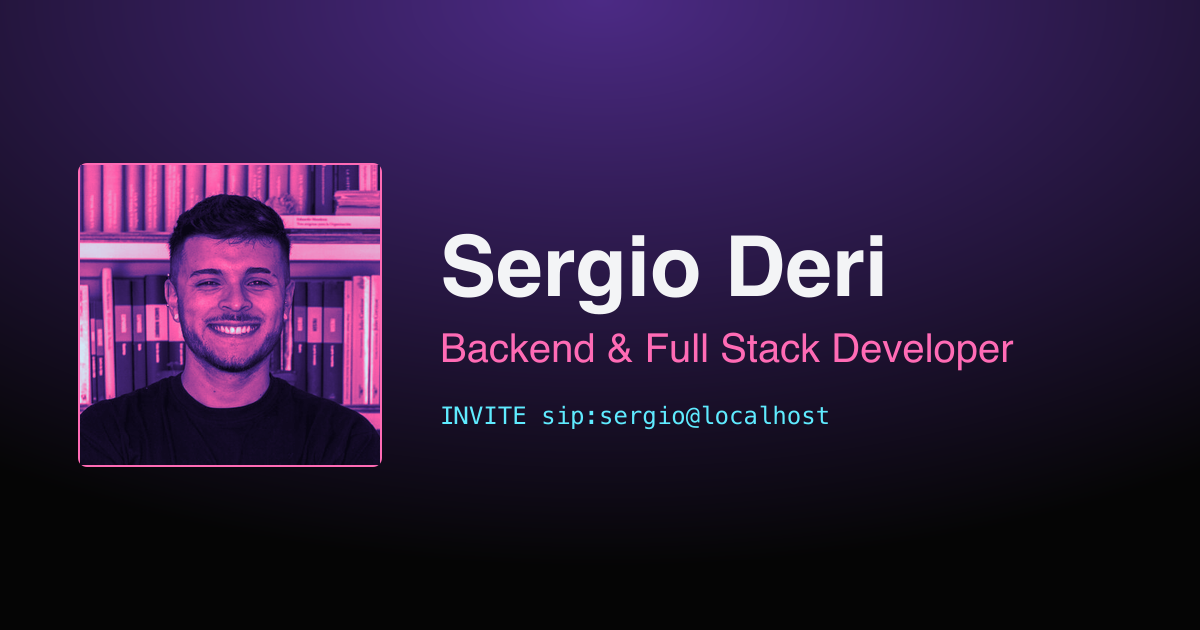
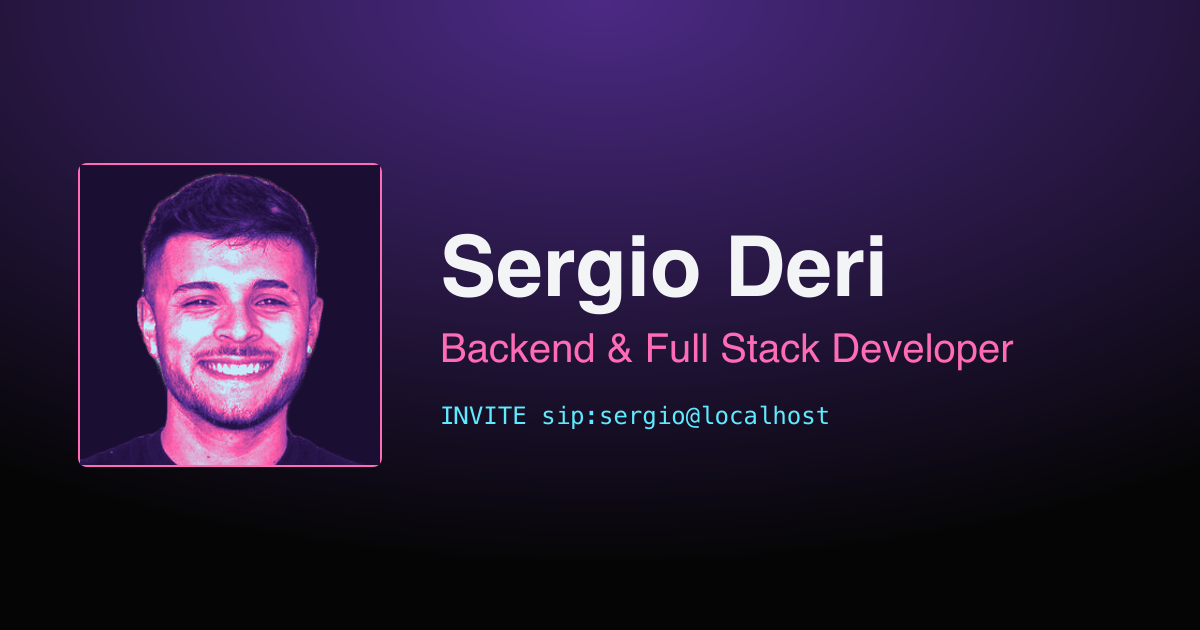
Refine hero portrait, section spacing and project links

Changed region(s): [[0.0617, 0.2413, 0.3392, 0.754]]

diff --git a/src/styles/global.css b/src/styles/global.css
@@ -122,6 +122,27 @@
     background: repeating-linear-gradient(to bottom, rgb(5 5 5 / 0.2) 0 1px, transparent 1px 3px);
   }
 
+  /* Cutout portrait: thin neon rim, scanlines limited to the figure, fading into the page. */
+  /* The padded box keeps the mask from clipping the glow at the image edge. */
+  .portrait-fade {
+    margin: -3rem -1.5rem 0 -3rem;
+    padding: 3rem 1.5rem 0 3rem;
+    mask-image: linear-gradient(to bottom, black 84%, transparent);
+  }
+
+  .portrait {
+    filter: drop-shadow(0 0 1px rgb(255 107 181 / 0.75)) drop-shadow(-12px 0 30px rgb(95 235 255 / 0.1));
+  }
+
+  .portrait::after {
+    content: "";
+    position: absolute;
+    inset: 0;
+    pointer-events: none;
+    background: repeating-linear-gradient(to bottom, rgb(5 5 5 / 0.22) 0 1px, transparent 1px 3px);
+    mask: var(--cutout) center / 100% 100% no-repeat;
+  }
+
   .nav-link {
     position: relative;
     display: inline-block;

diff --git a/src/data/projects.ts b/src/data/projects.ts
@@ -43,7 +43,8 @@ export const projects: Project[] = [
   {
     name: "ElegilosVos",
     dosName: "ELEGILOS",
-    description: "Football fans vote for their team.",
+    description: "Football fans pick their team's starting eleven before each match and see how the crowd's choice compares with the coach's.",
+    url: "https://elegilosvos.vercel.app",
     screen: "vote",
     stack: [],
   },

diff --git a/DESIGN.md b/DESIGN.md
@@ -177,7 +177,7 @@ components:
 
 A terminal left running on a Tokyo side street, kept by one person who built everything on it. The page is a near-black room with a faint 120px grid on the wall and violet light falling from the header. Two neon colours do all the talking: cyan where something can be done, magenta where something is being named or answered. Everything else is ink, grey and hairline.
 
-Density is unhurried. Type is large, sections sit far apart, and the personal projects carry the most mass on the page. Ornament is line-work drawn at low opacity: the asanoha hemp-leaf lattice and the seigaiha wave horizon, the scanlines over images, the single neon sign. Each should register only when you look for it. The world's humour lives in monospaced marginalia that read like telephony and DOS output, set small and grey beside the real content.
+Density is unhurried. Type is large, sections sit far apart, and the personal projects carry the most mass on the page. Ornament is line-work drawn at low opacity: the asanoha hemp-leaf lattice, the seigaiha wave horizon and the scanlines over images. Each should register only when you look for it. The world's humour lives in monospaced marginalia that read like telephony and DOS output, set small and grey beside the real content.
 
 The system rejects corporate templates and loud cyberpunk: heavy glitch, flicker, chromatic aberration. It also rejects retro-web costume and Japanese characters used as decoration; the Japanese reference is carried by geometry alone.
 
@@ -198,7 +198,7 @@ A black room lit by two neon tubes, with violet as the ambient spill and a cold 
 - **Lit Cyan** (#a5f4ff): The hover state of filled cyan buttons, and nothing else.
 
 ### Secondary
-- **Sign Magenta** (#ff6bb5): The naming and response colour. The role line under the name, the neon sign's frame, the asanoha lattice in project cards, the portrait border, every link and card hover, the invalid field border, and text selection.
+- **Sign Magenta** (#ff6bb5): The naming and response colour. The role line under the name, the asanoha lattice in project cards, the portrait border, every link and card hover, the invalid field border, and text selection.
 
 ### Tertiary
 - **Header Violet** (#4c2a85): Ambient only, as the radial glow falling from the header. It is too dark to carry text or lines.
@@ -250,7 +250,7 @@ A single column of sections in a centred container (1152px maximum, 24px gutters
 
 Records use a two-column ledger from 768px wide: a 208px mono column for the date or category, and the content beside it. Below that, the columns stack. Project cards stack with 48px between them, each split about 6:5 between screen and text from 768px wide. The grid behind everything is fixed to the viewport at 120px.
 
-The neon sign takes a 132px column on the right of the hero from 1024px wide. Below that it disappears and a 64px strip of asanoha closes the hero text instead. The sticky header runs three columns from 768px wide and wraps navigation onto its own row below that, with social icons hidden.
+From 1024px wide the portrait takes a 29rem column on the right of the hero. Below that it sits centred above the hero text at full opacity, and a 64px strip of asanoha closes the text. The sticky header runs three columns from 768px wide and wraps navigation onto its own row below that, with social icons hidden.
 
 Motion belongs to arrival and state. The name enters letter by letter and ends on a solid block cursor that stays still. Sections rise 14px and fade once as they enter the viewport. Under reduced motion all of it is removed and the content is simply present, including the name and every revealed section.
 
@@ -260,21 +260,20 @@ Motion belongs to arrival and state. The name enters letter by letter and ends o
 
 ## Elevation & Depth
 
-Flat at rest. Depth comes from tonal steps (Void to Zinc Surface) and hairlines. The one elevation event is a project card under a pointer, which rises 3px and gains a soft magenta glow beneath it. The neon sign carries a permanent faint halo because it is a light source, and that halo is the only resting neon glow on the page; the header's violet wash is ambient light.
+Flat at rest. Depth comes from tonal steps (Void to Zinc Surface) and hairlines. The one elevation event is a project card under a pointer, which rises 3px and gains a soft magenta glow beneath it.
 
 ### Shadow Vocabulary
 - **Card lift** (`box-shadow: 0 14px 34px -18px rgb(255 107 181 / 0.42)`): Project card on hover only, paired with a magenta border.
-- **Neon halo** (`filter: drop-shadow(0 0 7px rgb(255 107 181 / 0.3))`): The neon sign only.
 
 ### Named Rules
 
-**The Almost-Imperceptible Rule.** Atmosphere stays at the opacities the build set: grid at 3.5% white, scanlines at 20% void every 3px, asanoha at 42%, seigaiha at 32%, sign lattice at 66% and fading down its height. If an effect is the first thing you notice, it is too strong.
+**The Almost-Imperceptible Rule.** Atmosphere stays at the opacities the build set: grid at 3.5% white, scanlines at 20% void every 3px, asanoha at 42%, seigaiha at 32%. If an effect is the first thing you notice, it is too strong.
 
-**The Still Light Rule.** Light never moves. Scanlines, glows, the sign and the cursor are static; they do not animate, pulse or blink.
+**The Still Light Rule.** Light never moves. Scanlines, glows and the cursor are static; they do not animate, pulse or blink.
 
 ## Shapes
 
-Gently rounded rectangles (8px) for every container: cards, fields, images, screens, the sign's frame, the form's submit button. Full-round capsules are reserved for small inline things: chips, and the compact Contact button in the header. Timeline nodes are 9px ink circles on a hairline spine.
+Gently rounded rectangles (8px) for every container: cards, fields, images, screens, the form's submit button. Full-round capsules are reserved for small inline things: chips, and the compact Contact button in the header. Timeline nodes are 9px ink circles on a hairline spine.
 
 Traditional patterns are drawn as thin strokes (0.7 to 0.8 units) and fade out by mask: asanoha from the top-right corner of a card, seigaiha downward from nothing into the footer. Cards are broken once along the top edge, where the DOS path sits on a Void notch across the border.
 
@@ -313,13 +312,10 @@ Centred anchors at 16px in Muted Grey, turning magenta on hover. The current sec
 A headline on the left and a 14px mono SIP signal on the right, sharing a baseline over a Hairline rule. The signal is decorative and hidden from assistive technology.
 
 ### Scanlined Frame
-Images and screens sit in an 8px frame with a static scanline layer above them. The portrait is a duotone photograph with a 60% magenta border at 200px square (96px on small screens). A project screenshot, when one exists, takes this same frame with a Hairline border.
+Images and screens sit in an 8px frame with a static scanline layer above them. The portrait is a large duotone cutout with no frame: a 1px magenta rim follows the silhouette, scanlines are masked to the figure, and the base fades into the page. It sits on the right of the hero, 29rem wide on desktop. A project screenshot, when one exists, takes this same frame with a Hairline border.
 
 ### CRT Screen
 A 16:9 placeholder drawn in code, standing in for a missing screenshot: CRT Glass, a `C:\>` run line in cyan, a line-and-block sketch of the product, and the words "sample screen" in the corner. It is labelled as a sample and it is replaced by a real screenshot when one arrives.
-
-### Neon Sign
-A vertical 132px panel in the hero: a cyan asanoha lattice inside a 1.5-unit magenta rounded frame, fading to 34% at its foot, with the neon halo. One per page.
 
 ## Do's and Don'ts
 
@@ -337,7 +333,7 @@ A vertical 132px panel in the hero: a cyan asanoha lattice inside a 1.5-unit mag
 - **Don't** use Japanese characters as decoration; asanoha and seigaiha carry the reference as line-work.
 - **Don't** extend the DOS path or `C:\>` line into windows, title bars, taskbars, boot screens or other operating-system costume, or into GeoCities-style retro-web pastiche.
 - **Don't** fill the asanoha or seigaiha with colour, or raise them above the opacities in the Almost-Imperceptible Rule.
-- **Don't** add a second neon sign, or a resting neon glow to any other element.
+- **Don't** add a resting neon glow to any element.
 - **Don't** add looping animation, including a blinking cursor.
 - **Don't** give another section the visual weight of the project cards.
 - **Don't** show an invented fact on a surface; missing data is hidden.

diff --git a/.impeccable/surfaces/src-pages-index-astro.md b/.impeccable/surfaces/src-pages-index-astro.md
@@ -9,17 +9,17 @@ Scope: the single-page portfolio. Visitor mode: Experience, with a contact actio
 Audience and job: hiring managers and clients decide whether to contact Sergio.
 Proof: real resume history, four personal projects. Provisional CRT screens stand in for screenshots and are labeled as placeholders.
 Constraints: brief-pinned fonts, 8px radius, 72/48/20 type scale, no Japanese characters, near-imperceptible effects, no flicker.
-Memorable moment: the page reads as one SIP call, INVITE to BYE, beside a vertical neon sign built from a hemp-leaf lattice.
+Memorable moment: the page reads as one SIP call, INVITE to BYE.
 
 ## Direction contract
 
 THESIS: A night-shift terminal seen through a Tokyo side street: one craftsman's call log. Refuses the category default of a centred hero over equal icon cards and refuses loud cyberpunk.
 
-OWN-WORLD: #050505 ground, fixed 120px hairline grid, violet glow from the header. Cyan for actions, magenta for the subtitle and hovers. Line-only asanoha sign and seigaiha horizon. Bordered cards with a DOS path set into the top edge. Duotone photograph with faint scanlines.
+OWN-WORLD: #050505 ground, fixed 120px hairline grid, violet glow from the header. Cyan for actions, magenta for the subtitle and hovers. Line-only asanoha and seigaiha horizon. Bordered cards with a DOS path set into the top edge. Duotone photograph with faint scanlines.
 
 STORY: The visitor meets Sergio, reads a career from modem repair to platform engineering, finds four personal projects with the most weight, then sends a message from the header or the form.
 
-FIRST VIEWPORT: Sticky header with avatar and name, anchors, icons and a cyan Contact me. Left: 200px square duotone portrait beside a 72px name; magenta role and intro below; INVITE line last. Right edge on desktop: tall vertical neon sign.
+FIRST VIEWPORT: Sticky header with name, anchors, icons and a cyan Contact me. Left: 72px name, magenta role and intro below, INVITE line last. Right: large duotone cutout of Sergio, about 460px wide, fading into the page. Below desktop width it sits centred above the text.
 
 FORM: Pinned by the user through the grilling interview, candidate one of one. Direction pinned by the owner across the interview, so concept-seed was not run and there is no seed key. The SIP-call device implements the brief line asking for a subtle nod to telephony and SIP. Signature interaction: letter-by-letter name entrance ending on a solid block cursor; section labels advance through the SIP call.
 
